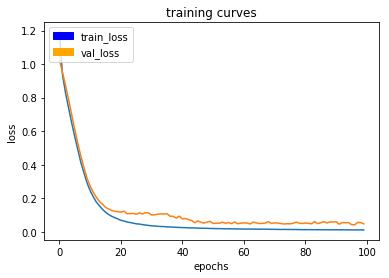
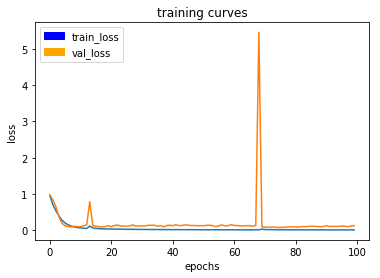
Update writeup

diff --git a/writeup.md b/writeup.md
@@ -26,43 +26,55 @@ While the skip connections blend in the CNN layers to improve the image segmenta
 
 I ended up using a fairly deep FCN in my project, consisting of 5 layers CNNs and the same number of upsampling layers with skip connections.
 
+I addition to the suggestions in the lessons, I also included an extra convolution layer in the encoder, to allow the network to learn even more features.
+
 ### The write-up conveys the student's understanding of the parameters chosen for the the neural network
 
 #### Learning rate
-I tried different learning rates, but they either overtrained, or trained very, very slow. In the end the recommended learning rate for adam optimiser ended up being my choice as well:
-0.001
+I tried different learning rates, but they either overtrained, or trained very, very slow. In the end the recommended learning rate for nadam optimiser ended up being my choice as well:
+0.002
 
 #### Batch size
-In short this number should be as high as your system can handle. In my case, my GPU could handle a batch size of 256.
+In short this number should be as high as your system can handle. In my case, my GPU could handle a batch size of 40.
 
 #### Steps per epoch
-A good number here should be the number of images to train on, divided by the batch size. Which is why I chose the number 15.
+A good number here should be the number of images to train on, divided by the batch size. Which is why I chose the number 94.
 
 #### Validation steps per epoch
-Same as with steps per epoch, only related to number of images to validate on. My number was 5.
+Same as with steps per epoch, only related to number of images to validate on. My number was 30.
 
 #### Number of epochs
 This is the number of times you want the training to run. The balance it between not training enough and overtraining. The right balance gives us the best performing model, in it's most general form. With the size of my model and the learning rate, I ended up running the training for 100 epochs.
 
 #### Result
-The result of these hyper parameters gave the learning loss are shown in the figure below.
+The result of these hyper parameters gave the learning loss are shown in the figure below. As the figure shows the loss jumps up and down a bit, and even indicates overlearning. Part of this was because I only used the provided validation data, and part of it falls down on the Nadam optimizer.
 
 ![alt text](docs/misc/learning.png "Learning rate")
 
 #### Workers
-This is the number of parallel processes during training. I tried different values here, but could not find any significant differences. I ended up with 10.
+This is the number of parallel processes during training. I tried different values here, but could not find any significant differences. I ended up with 4.
 
 ### The student has a clear understanding and is able to identify the use of various techniques and concepts in network layers indicated by the write-up
 
 See explanation above.
 
+In addition to the provided to code I ended up switching optimizer to Nadam. It turned out to tune my model a bit better than Adam.
+
 ### The student has a clear understanding of image manipulation in the context of the project indicated by the write-up
 
-See explanation above.
+I followed the suggetions from the classroom lessons, and collected data in 3 different ways:
+1: Follow hero while zig-zagging and other people around
+2: Patrol large path without hero or other people
+3: Images of hero at distance with lots of people. I got inspired of the last video showing lots of rounds around a bush.
+
+In addition I created the file called filter.py, which deletes all the images in a folder not containing the hero. I ran the filter on number 1 and 3 in the list above, to help ficus the training.
+To capture enough images for step 3 I set up a path for hero and drone, and let it run at full speed for 45 minutes. This gave me about 11000 images, which I in turned ran the filter on, and ended up with about 3000 images of the hero at various angles and distances, in crowded area.
 
 ### The student displays a solid understanding of the limitations to the neural network with the given data chosen for various follow-me scenarios which are conveyed in the write-up
 
 The project description indicates that more image capturing might be needed to get the mandatory result. This became clear as I tested the model in the simulator. In the patrol mode, the model had problems locating the hero. But once the model changed to follow mode, it behaved very good. This indicate to me that the images provided lacks in detecting the hero at distance and from different angles, but also that the images as a good sample of the hero from behind.
+
+As a next step I started to collect large amounts of images to try to improve this area. I captured about 3000 more images of the hero.
 
 ## Model
 ### The model is submitted in the correct format
@@ -70,24 +82,18 @@ The resulting model can be found in the folder called data/weights . The model u
 
 ### The neural network must achieve a minimum level of accuracy for the network implemented
 
-The model performs OK in follow mode, but takes a long time to lock on to the hero. This means that the model does not recognise the hero from many different distances and angles. But as soon as the model locks on, the follow mode is solid.
+To perform at the required bar, I ended up with a large model, which I in addition trained on images of full size. As a result the inception part could no longer run on my laptop, but needed the support of a proper GPU to run. Put overall performance is now good.
 
-The resulting IoU (Intersection of union) score is 46%. Over the required threshold, but not by much. The detection of the hero at distance ruins the score and performance.
+The resulting IoU (Intersection of union) score is 54%. Over the required threshold.
 
 A video from the follow mode can be found [here (docs/misc/FollowMe.mp4)](./docs/misc/FollowMe.mp4)
 
 ## Improvements
-### Capture more pictures
-As indicated above, I believe the model would behave much better on a set of captured images of the hero. Both at distance and at different angles.
-
-### Train on more images
-With more captured data the model could be trained to behave better at distance.
-
-### Train two networks
-It might also be beneficial to train two different models. One for following the hero, and a different one for locating the hero. This would allow for the network to be more specialized.
-
-### Train two different last half
-As indicated in the lessons it is possible to construct a model where the CNN part, and the 1x1 convolution is identical for the two network. But the transpose, upsampling and skip connections are specialized for different purposes. This relates to the suggestion above about separate models, but could be a much more effective way to achieve the same result: Specialised models (or part of a model).
+### Descrease the size of the model
+As indicated above, The model now requires GPU to run properly. The model could possibly be tuned to perform at the same level, but smaller. I am not sure, but I believe with more time, it should be possible.
 
 ### Tensorflow
 I own a multi GPU computer, so a rewrite to Tensorflow to make use of both the GPUs in my computer, would most likely improve the speed of trsining. Which in turn would allow me to test many more models and hyperparameters. Since Keras can use Tensorflow as it's backend, such a rewrite should be very possible.
+
+## Summary
+The whole process was very time consuming. I have had my computer running every night for almost a week not to test different approaches. At the end I went for lots of data, a very big model, and a different optimizer. Which in sum brought me over the threshold.
